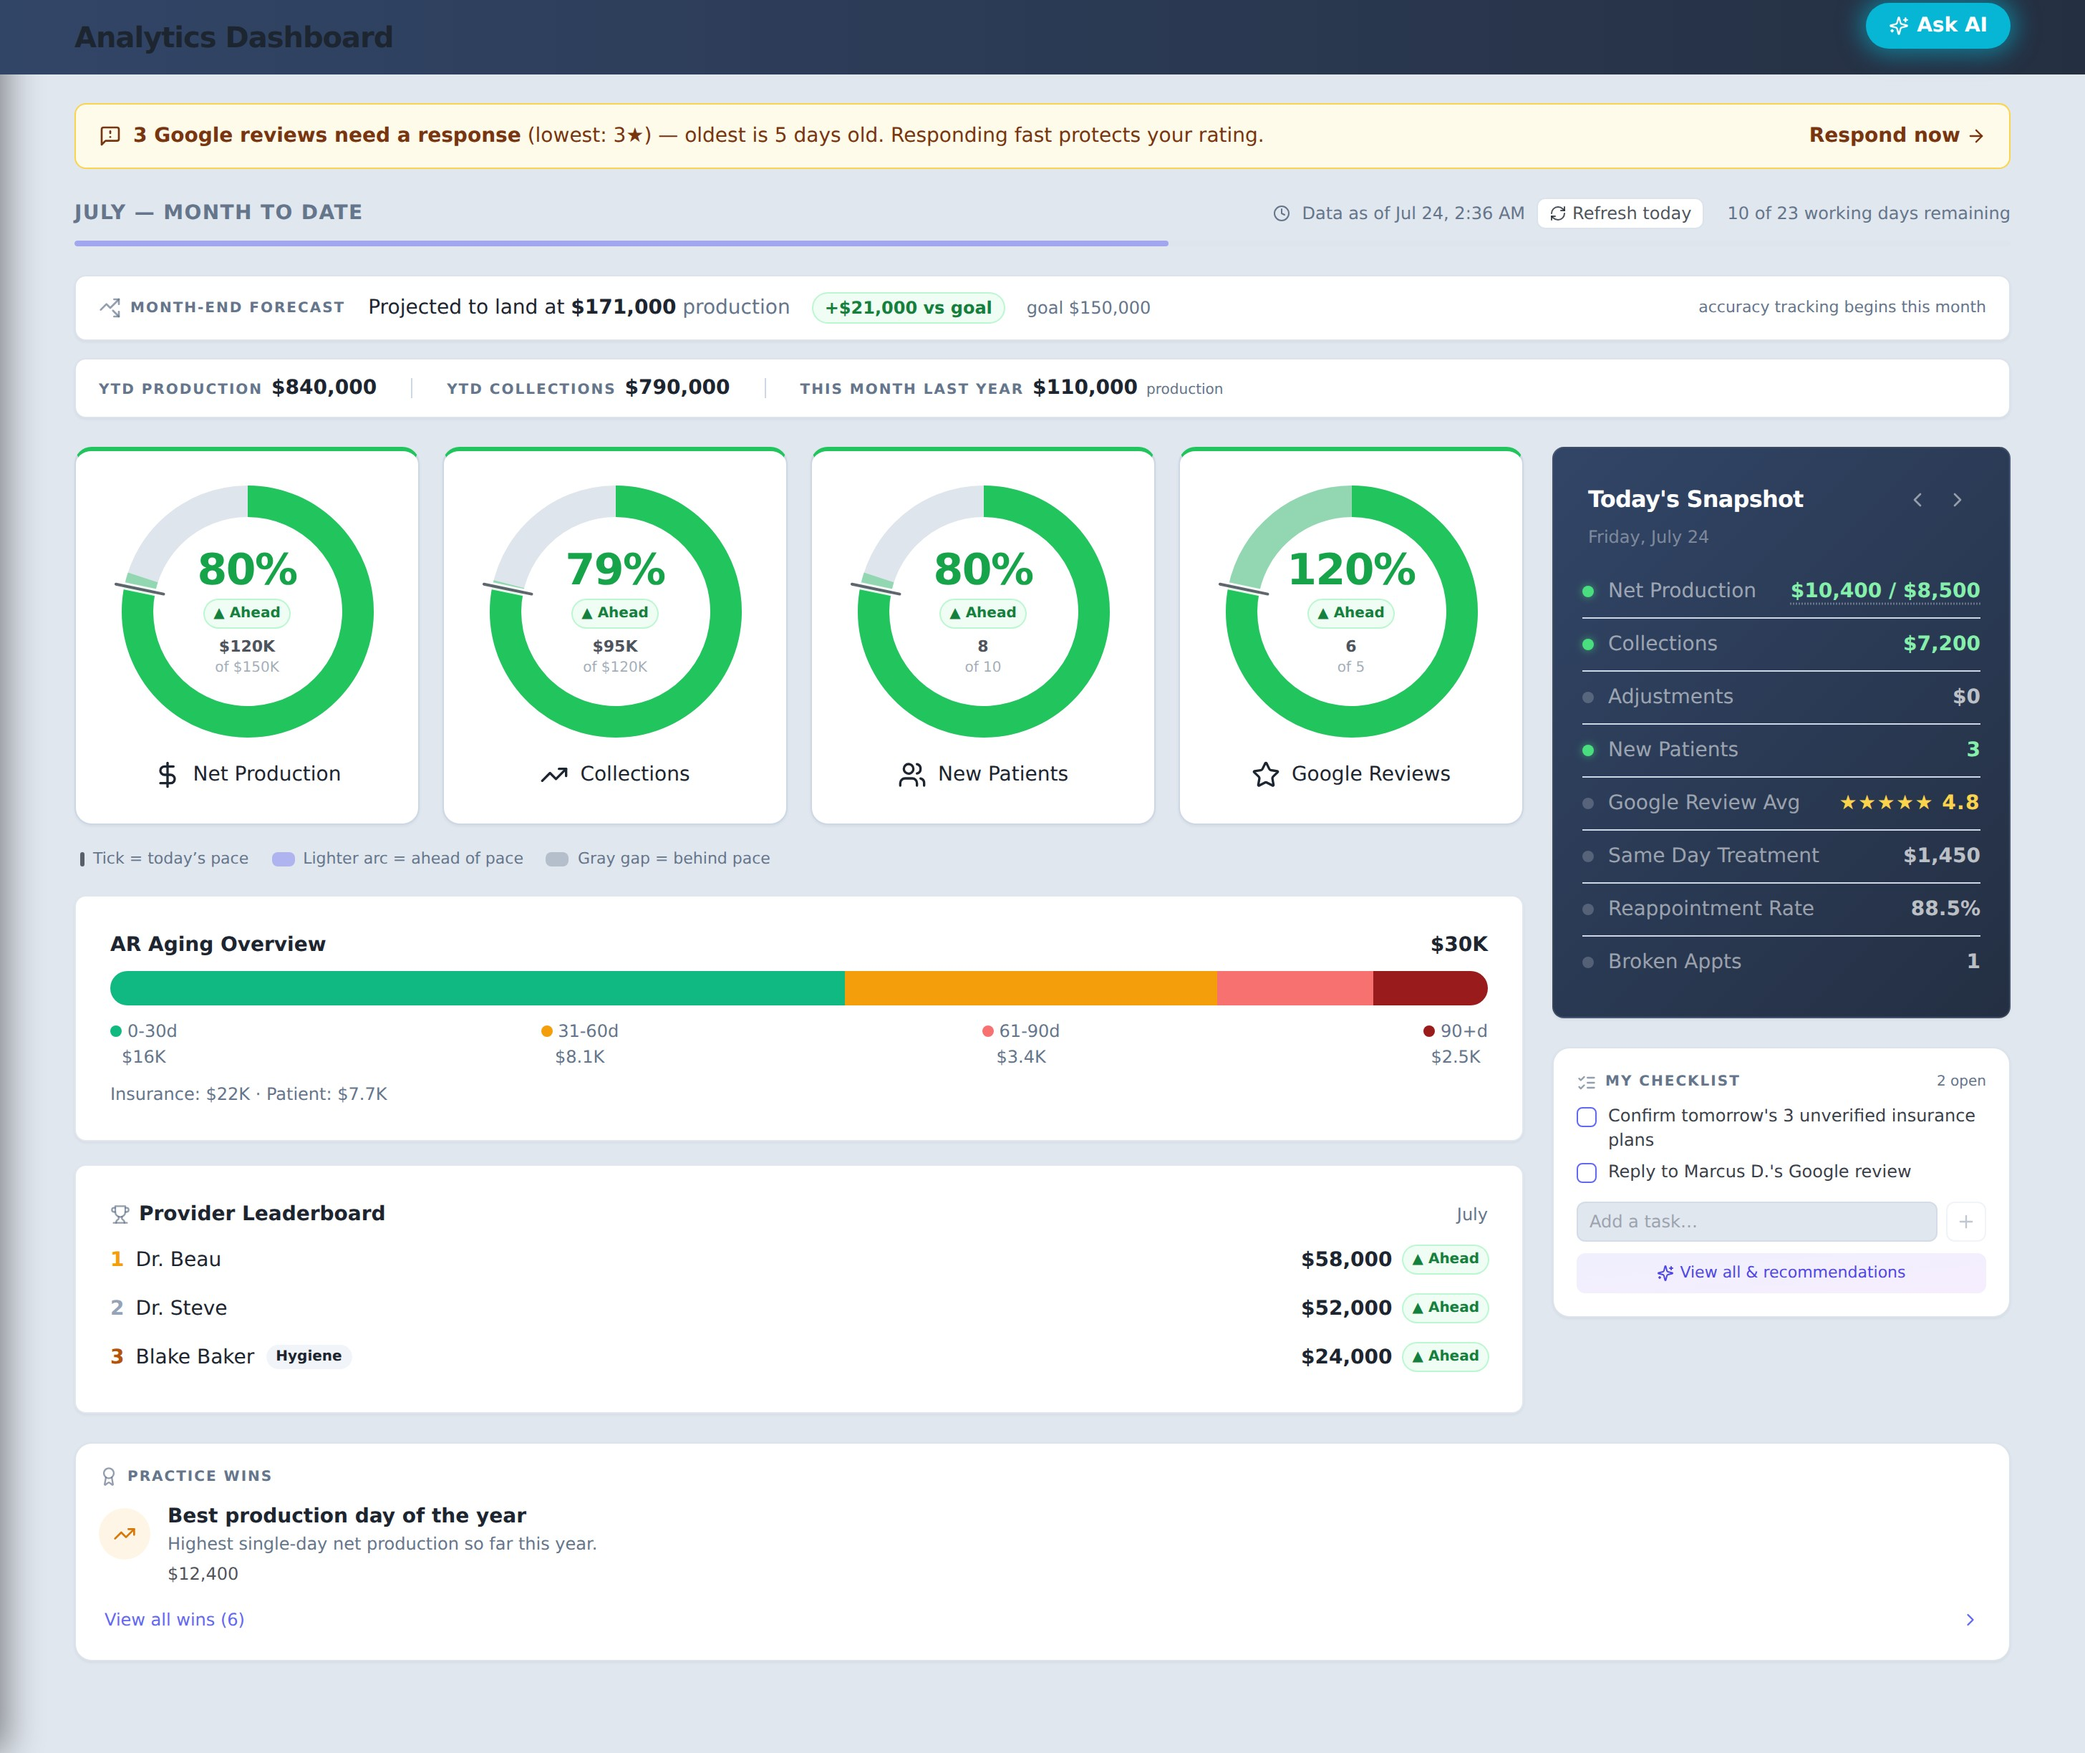
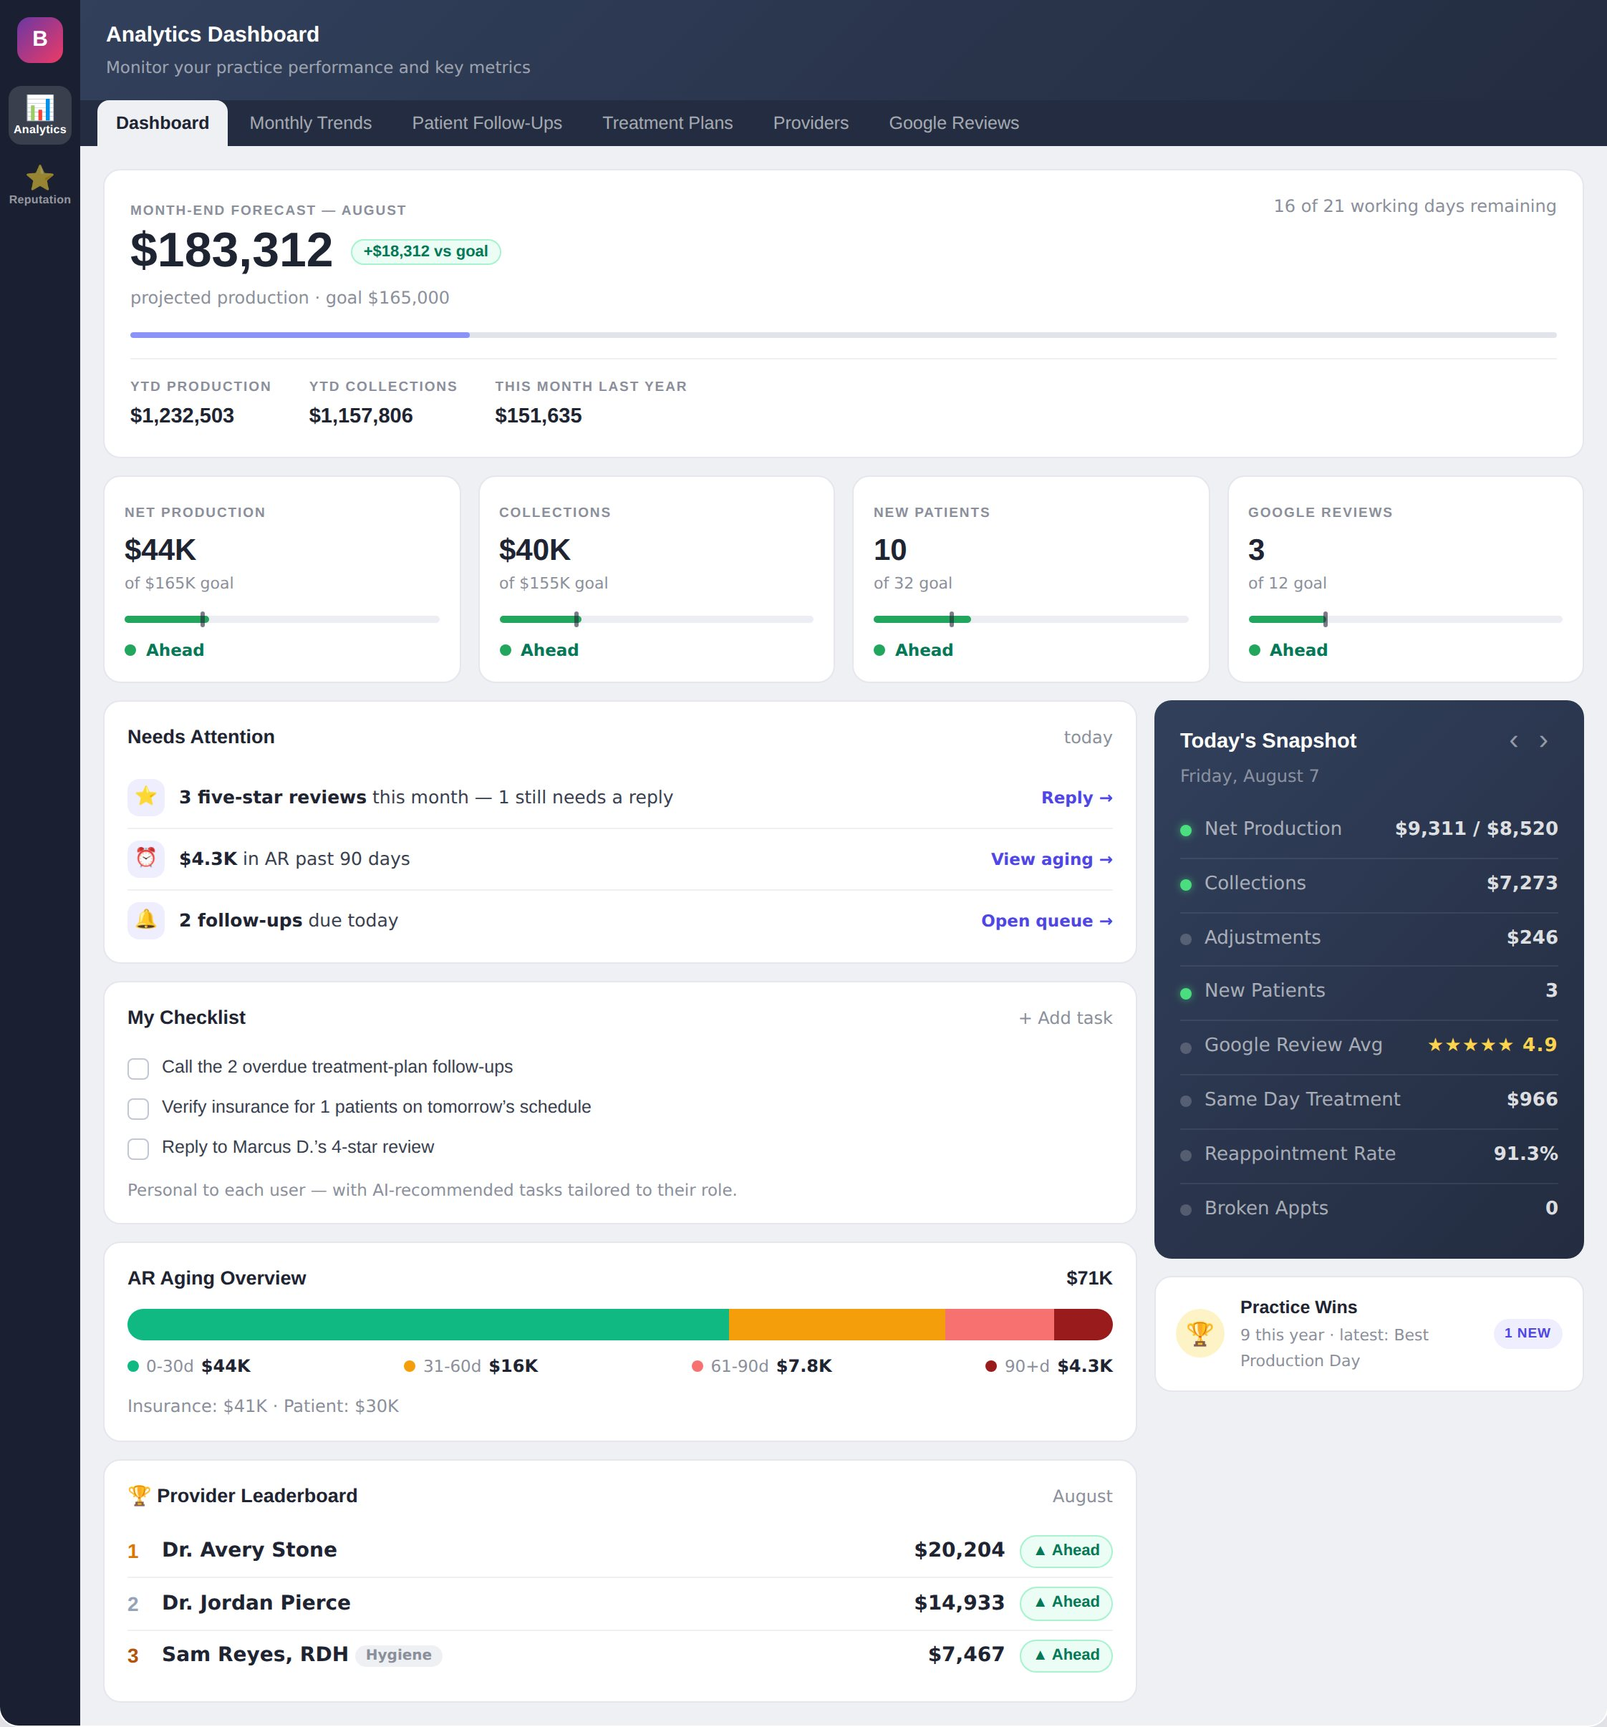
Include Bridge Reputation in the Private Release plan; replace stale rings-era screenshots
- Pricing, ecosystem and FAQ now state Reputation is part of the platform,
  covered by the locked $39/location/mo — no add-on fee.
- New hero screenshot (assets/app/analytics-dashboard.jpg) rendered from the
  refreshed demo: month-end forecast hero, linear pace gauges, Needs
  Attention, checklist, AR aging, leaderboard, snapshot rail — matching the
  app's current design. Used by both /dashboard/ and /private-release/.
- New pacing-gauges.jpg replaces the retired pacing-rings.jpg in the
  working-day pacing section on /dashboard/.

Claude-Session: https://claude.ai/code/session_01P1gZwf8rvjxtRrX7aSdKxZ

diff --git a/private-release/index.html b/private-release/index.html
@@ -82,7 +82,7 @@
             <span class="browser__addr"><svg width="12" height="12" viewBox="0 0 24 24" fill="none" stroke="currentColor" stroke-width="2.4"><rect x="5" y="11" width="14" height="9" rx="2"/><path d="M8 11V8a4 4 0 0 1 8 0v3"/></svg>app.bridgedental.ai/dashboard</span>
           </div>
           <div class="shot shot--img">
-            <img loading="eager" fetchpriority="high" decoding="async" class="shot__img" style="display:block;width:100%;max-width:100%;height:auto;" src="../assets/app/analytics-dashboard.jpg" alt="Bridge Analytics dashboard — month-end forecast, pace gauges, AR aging and today's snapshot" width="2912" height="2448" />
+            <img loading="eager" fetchpriority="high" decoding="async" class="shot__img" style="display:block;width:100%;max-width:100%;height:auto;" src="../assets/app/analytics-dashboard.jpg?v=20260807" alt="Bridge Analytics dashboard — month-end forecast, pace gauges, needs-attention list, AR aging and today's snapshot" width="2244" height="2412" />
           </div>
         </figure>
       </div>
@@ -307,7 +307,7 @@
         <div class="amt">$229<small> /mo</small></div>
         <p class="per">Per location, per month — what everyone else pays at public launch.</p>
         <ul>
-          <li><svg width="17" height="17" viewBox="0 0 24 24" fill="none" stroke="currentColor" stroke-width="2.4" stroke-linecap="round" stroke-linejoin="round"><path d="M20 6 9 17l-5-5"/></svg>The complete Bridge Analytics core plan</li>
+          <li><svg width="17" height="17" viewBox="0 0 24 24" fill="none" stroke="currentColor" stroke-width="2.4" stroke-linecap="round" stroke-linejoin="round"><path d="M20 6 9 17l-5-5"/></svg>The complete platform — Bridge Analytics + Bridge Reputation</li>
           <li><svg width="17" height="17" viewBox="0 0 24 24" fill="none" stroke="currentColor" stroke-width="2.4" stroke-linecap="round" stroke-linejoin="round"><path d="M20 6 9 17l-5-5"/></svg>Unlimited users, AI included</li>
           <li><svg width="17" height="17" viewBox="0 0 24 24" fill="none" stroke="currentColor" stroke-width="2.4" stroke-linecap="round" stroke-linejoin="round"><path d="M20 6 9 17l-5-5"/></svg>No setup fee, no contract</li>
         </ul>
@@ -319,8 +319,8 @@
         <div class="amt">$39<small> /mo</small></div>
         <p class="per">Per location, per month — <b>locked in permanently</b> as one of the first 10.</p>
         <ul>
-          <li><svg width="17" height="17" viewBox="0 0 24 24" fill="none" stroke="currentColor" stroke-width="2.4" stroke-linecap="round" stroke-linejoin="round"><path d="M20 6 9 17l-5-5"/></svg>Everything in the standard plan</li>
-          <li><svg width="17" height="17" viewBox="0 0 24 24" fill="none" stroke="currentColor" stroke-width="2.4" stroke-linecap="round" stroke-linejoin="round"><path d="M20 6 9 17l-5-5"/></svg>First month free — including Bridge Reputation</li>
+          <li><svg width="17" height="17" viewBox="0 0 24 24" fill="none" stroke="currentColor" stroke-width="2.4" stroke-linecap="round" stroke-linejoin="round"><path d="M20 6 9 17l-5-5"/></svg>Everything in the standard plan — Bridge Reputation included</li>
+          <li><svg width="17" height="17" viewBox="0 0 24 24" fill="none" stroke="currentColor" stroke-width="2.4" stroke-linecap="round" stroke-linejoin="round"><path d="M20 6 9 17l-5-5"/></svg>First month free</li>
           <li><svg width="17" height="17" viewBox="0 0 24 24" fill="none" stroke="currentColor" stroke-width="2.4" stroke-linecap="round" stroke-linejoin="round"><path d="M20 6 9 17l-5-5"/></svg>No charge today; cancel before the first paid month</li>
           <li><svg width="17" height="17" viewBox="0 0 24 24" fill="none" stroke="currentColor" stroke-width="2.4" stroke-linecap="round" stroke-linejoin="round"><path d="M20 6 9 17l-5-5"/></svg>A direct line to the founders — your feedback shapes the roadmap</li>
         </ul>
@@ -371,7 +371,7 @@
         <p style="font-size:15px;">Practice intelligence for Open Dental — forecasting, daily priorities, patient follow-ups, provider scorecards, huddles and debriefs.</p>
       </div>
       <div class="card">
-        <span class="badge badge--live">Included in your free month</span>
+        <span class="badge badge--live">Included with Analytics</span>
         <h3 class="h3" style="margin:16px 0 8px;">Bridge Reputation</h3>
         <p style="font-size:15px;">Automated review requests, AI-drafted responses, sentiment themes, and rating trends — your Google presence beside the production it drives.</p>
       </div>
@@ -421,8 +421,8 @@
         <div class="faq__a">Your practice metrics come straight from your Open Dental data, with drill-downs that reconcile against headline totals. Local market comparisons use verified public signals (Google reviews, ratings, visibility). Operational benchmarks will use aggregated, de-identified data from the Bridge network — and until a benchmark is ready and defensible, we label it "coming soon" or don't show it.</div>
       </details>
       <details>
-        <summary>What happens to Bridge Reputation after the free month?<span class="plus"></span></summary>
-        <div class="faq__a">Bridge Reputation is included in your free first month so you can run the whole platform. After that, your locked $39/month covers Bridge Analytics; Reputation is a separate add-on, and as a Private Release practice you'll get its early pricing before anyone else. You'll never be charged for it without opting in.</div>
+        <summary>Is Bridge Reputation really included?<span class="plus"></span></summary>
+        <div class="faq__a">Yes. Bridge Reputation — automated review requests, AI-drafted responses, sentiment themes, rating trends — is part of the platform, and your locked $39 per location per month covers all of it. No add-on fee, during the free month or after.</div>
       </details>
       <details>
         <summary>What's expected of me as a Private Release practice?<span class="plus"></span></summary>

diff --git a/dashboard/index.html b/dashboard/index.html
@@ -88,7 +88,7 @@
             <span class="browser__addr"><svg width="12" height="12" viewBox="0 0 24 24" fill="none" stroke="currentColor" stroke-width="2.4"><rect x="5" y="11" width="14" height="9" rx="2"/><path d="M8 11V8a4 4 0 0 1 8 0v3"/></svg>app.bridgedental.ai/dashboard</span>
           </div>
           <div class="shot shot--img">
-            <img loading="eager" fetchpriority="high" decoding="async" class="shot__img" style="display:block;width:100%;max-width:100%;height:auto;" src="../assets/app/analytics-dashboard.jpg" alt="Bridge Analytics dashboard — month-to-date pace, forecast, AR aging and today's snapshot" width="2912" height="2448" />
+            <img loading="eager" fetchpriority="high" decoding="async" class="shot__img" style="display:block;width:100%;max-width:100%;height:auto;" src="../assets/app/analytics-dashboard.jpg?v=20260807" alt="Bridge Analytics dashboard — month-end forecast, pace gauges, needs-attention list, AR aging and today's snapshot" width="2244" height="2412" />
           </div>
         </figure>
       </div>
@@ -161,7 +161,7 @@
           <span class="browser__addr"><svg width="12" height="12" viewBox="0 0 24 24" fill="none" stroke="currentColor" stroke-width="2.4"><rect x="5" y="11" width="14" height="9" rx="2"/><path d="M8 11V8a4 4 0 0 1 8 0v3"/></svg>app.bridgedental.ai/analytics</span>
         </div>
         <div class="shot shot--img shot--auto">
-          <img loading="lazy" decoding="async" class="shot__img" style="display:block;width:100%;max-width:100%;height:auto;" src="../assets/app/pacing-rings.jpg" alt="Month-to-date pace rings — Net Production, Collections, New Patients and Google Reviews, each marked Ahead" width="2056" height="556" />
+          <img loading="lazy" decoding="async" class="shot__img" style="display:block;width:100%;max-width:100%;height:auto;" src="../assets/app/pacing-gauges.jpg?v=20260807" alt="Month-to-date pace gauges — Net Production, Collections, New Patients and Google Reviews, each with a working-day pace tick and marked Ahead" width="2068" height="292" />
         </div>
       </figure>
     </div>
